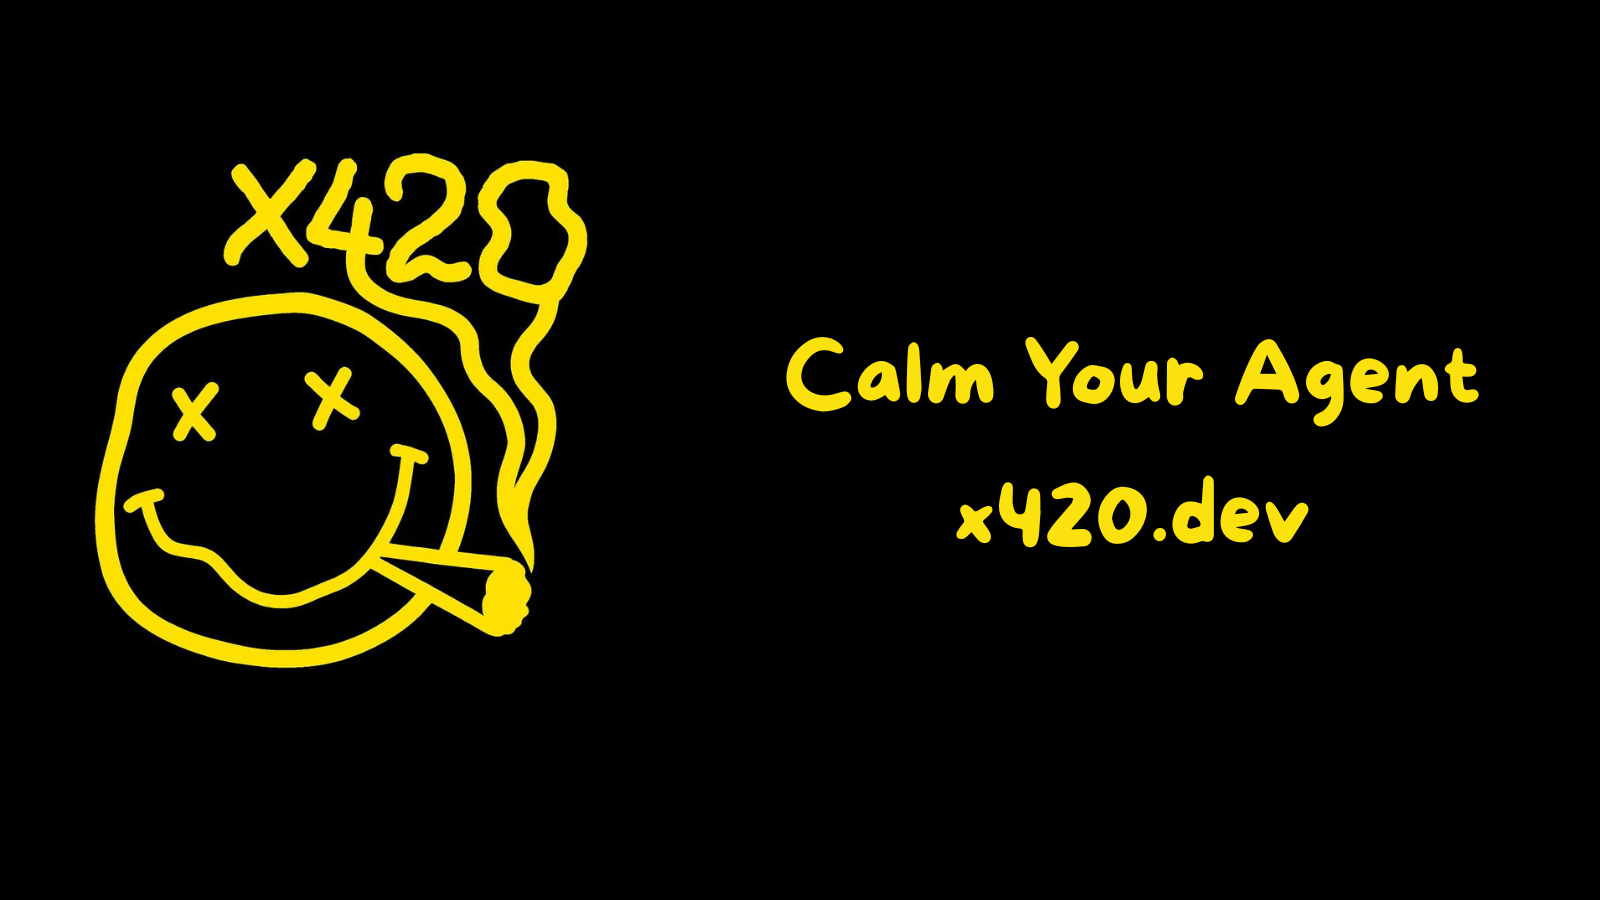
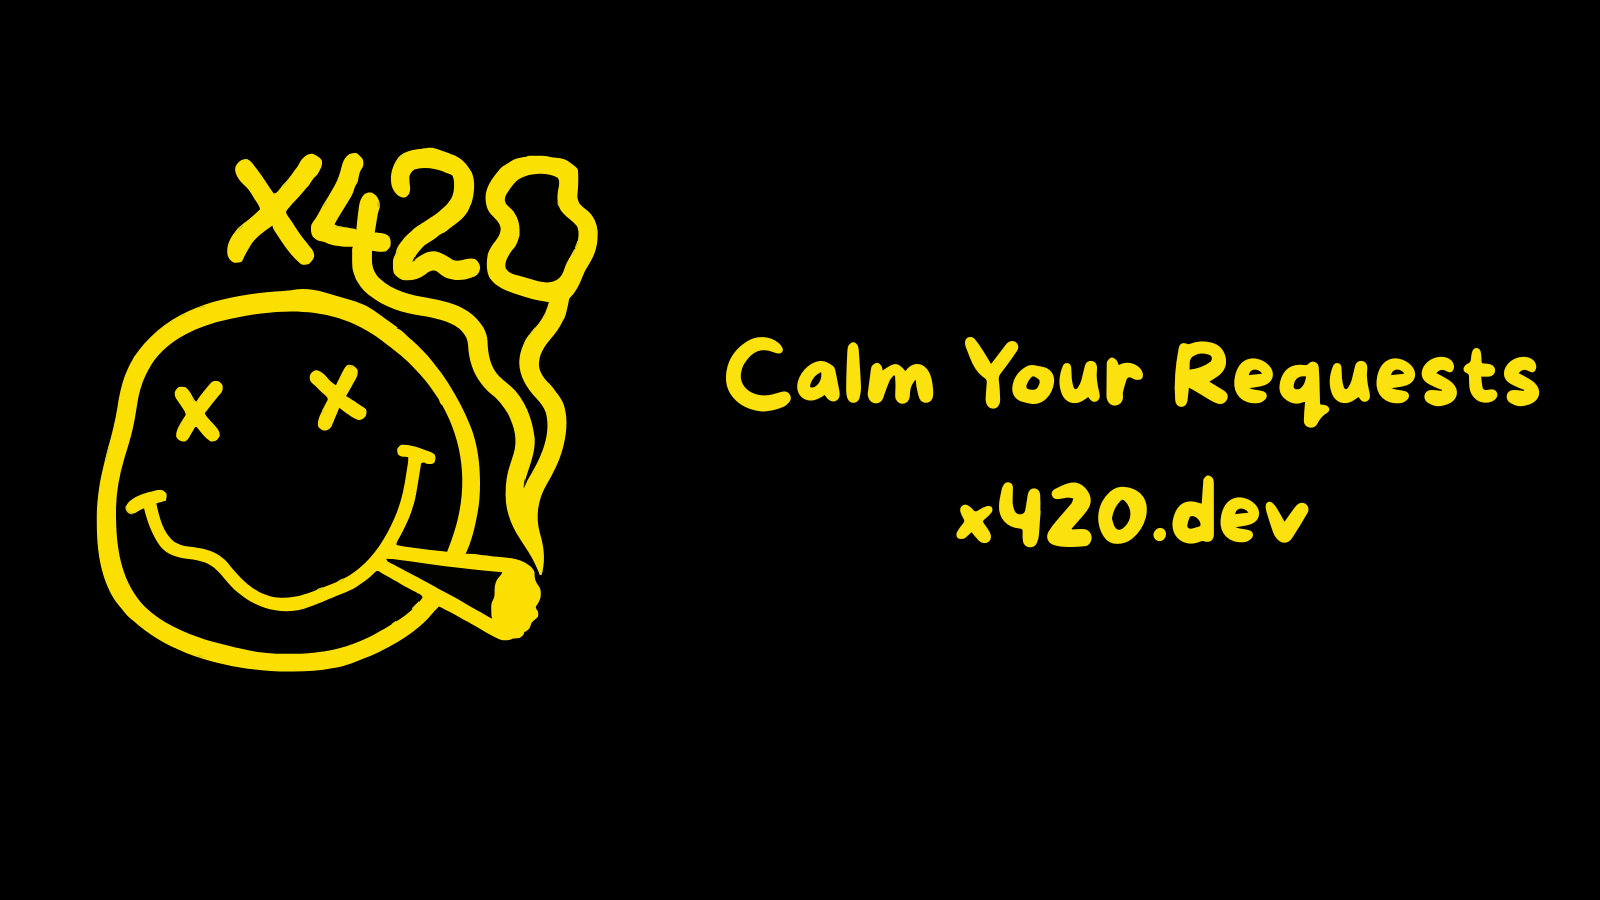
Update project branding from "Calm Your Agent" to "Calm Your Requests" in metadata and content. Replace references throughout the page and update the cover image.

diff --git a/app/page.tsx b/app/page.tsx
@@ -1,25 +1,24 @@
-import { Badge } from "@/components/ui/badge"
 import { Card } from "@/components/ui/card"
 import { Separator } from "@/components/ui/separator"
 import Image from "next/image"
 import type { Metadata } from "next"
 
 export const metadata: Metadata = {
-  title: "Calm Your Agent - Rate Limiting Protocol",
+  title: "Calm Your Requests - Rate Limiting Protocol",
   description: "A credible protocol for autonomous agents and web services to negotiate graceful throttling and cooldown periods using HTTP 420.",
   keywords: ["x420", "HTTP 420", "rate limiting", "autonomous systems", "AI agents", "calm protocol", "x402"],
-  authors: [{ name: "Calm Your Agent" }],
+  authors: [{ name: "Calm Your Requests" }],
   openGraph: {
-    title: "Calm Your Agent",
+    title: "Calm Your Requests",
     description: "Rate limiting for AI agents via HTTP 420.",
     url: "https://x420.dev",
-    siteName: "Calm Your Agent",
+    siteName: "Calm Your Requests",
     images: [
       {
         url: "/cover.png",
         width: 1200,
         height: 630,
-        alt: "Calm Your Agent",
+        alt: "Calm Your Requests",
       },
     ],
     locale: "en_US",
@@ -27,7 +26,7 @@ export const metadata: Metadata = {
   },
   twitter: {
     card: "summary_large_image",
-    title: "Calm Your Agent",
+    title: "Calm Your Requests",
     description: "Rate limiting for AI agents via HTTP 420.",
     images: ["/cover.png"],
   },
@@ -46,7 +45,7 @@ export default function WhitepaperPage() {
             <div className="w-full max-w-2xl">
               <Image
                 src="/cover.png"
-                alt="Calm Your Agent"
+                alt="Calm Your Requests"
                 width={1200}
                 height={900}
                 className="w-full h-auto"
@@ -54,15 +53,6 @@ export default function WhitepaperPage() {
               />
             </div>
             <div className="space-y-6 max-w-3xl">
-              <Badge className="bg-primary text-primary-foreground text-sm px-5 py-2 font-semibold">
-                Open Standard Proposal
-              </Badge>
-              <h1 className="text-4xl md:text-6xl font-bold text-balance leading-tight">
-                Calm Your Agent
-              </h1>
-              <p className="text-xl text-muted-foreground leading-relaxed">
-                Rate limiting for AI agents via HTTP <span className="text-primary font-bold">420</span>
-              </p>
               <div className="flex items-center justify-center gap-6">
                 <button className="px-10 py-5 bg-primary text-primary-foreground font-bold text-2xl rounded-xl border-3 border-primary shadow-lg shadow-primary/30 hover:shadow-xl hover:shadow-primary/50 hover:bg-transparent hover:text-primary transition-all duration-300 transform hover:scale-110 hover:-translate-y-1 active:scale-95">
                   Puff
@@ -81,7 +71,7 @@ export default function WhitepaperPage() {
         {/* Overview */}
         <section className="mb-16">
           <p className="text-xl leading-relaxed text-foreground/90 mb-6">
-            Just as x402 standardized payments for autonomous agents via HTTP 402, <span className="text-primary font-bold">Calm Your Agent</span> repurposes HTTP <span className="text-primary font-bold">420</span> ("<span className="text-accent font-semibold">Enhance Your Calm</span>") to create a credible protocol for graceful rate limiting and throttling. This standard enables AI agents and web services to negotiate cooldown periods automatically.
+            Just as x402 standardized payments for autonomous agents via HTTP 402, <span className="text-primary font-bold">Calm Your Requests</span> repurposes HTTP <span className="text-primary font-bold">420</span> ("<span className="text-accent font-semibold">Enhance Your Calm</span>") to create a credible protocol for graceful rate limiting and throttling. This standard enables AI agents and web services to negotiate cooldown periods automatically.
           </p>
           <Card className="p-6 bg-gradient-to-br from-accent/15 to-secondary/15 border-2 border-accent/50">
             <p className="text-base italic">
@@ -135,7 +125,7 @@ Calm-Token: abcd1234efgh5678`}
         {/* Closing */}
         <Card className="p-8 bg-gradient-to-br from-primary/15 via-accent/15 to-secondary/15 border-4 border-primary/50">
           <p className="text-lg leading-relaxed text-center text-balance font-medium">
-            <span className="text-primary font-bold">Calm Your Agent</span> complements x402 by adding a time-based negotiation layer. Together, they let agents choose whether to spend currency or time. Sometimes the optimal solution is to{" "}
+            <span className="text-primary font-bold">Calm Your Requests</span> complements x402 by adding a time-based negotiation layer. Together, they let agents choose whether to spend currency or time. Sometimes the optimal solution is to{" "}
             <span className="text-accent font-semibold">enhance your calm</span>.
           </p>
           <div className="text-center mt-6 text-5xl font-bold text-primary opacity-50">420</div>
@@ -146,7 +136,7 @@ Calm-Token: abcd1234efgh5678`}
       <footer className="border-t-2 border-primary/50 mt-16 py-8 bg-muted/30">
         <div className="container mx-auto px-4 max-w-4xl">
           <p className="text-center text-muted-foreground text-sm">
-            <span className="text-primary font-bold">Calm Your Agent</span> • HTTP{" "}
+            <span className="text-primary font-bold">Calm Your Requests</span> • HTTP{" "}
             <span className="font-mono font-bold">420</span> "
             <span className="text-accent font-semibold">Enhance Your Calm</span>" • Complementary to x402
           </p>
